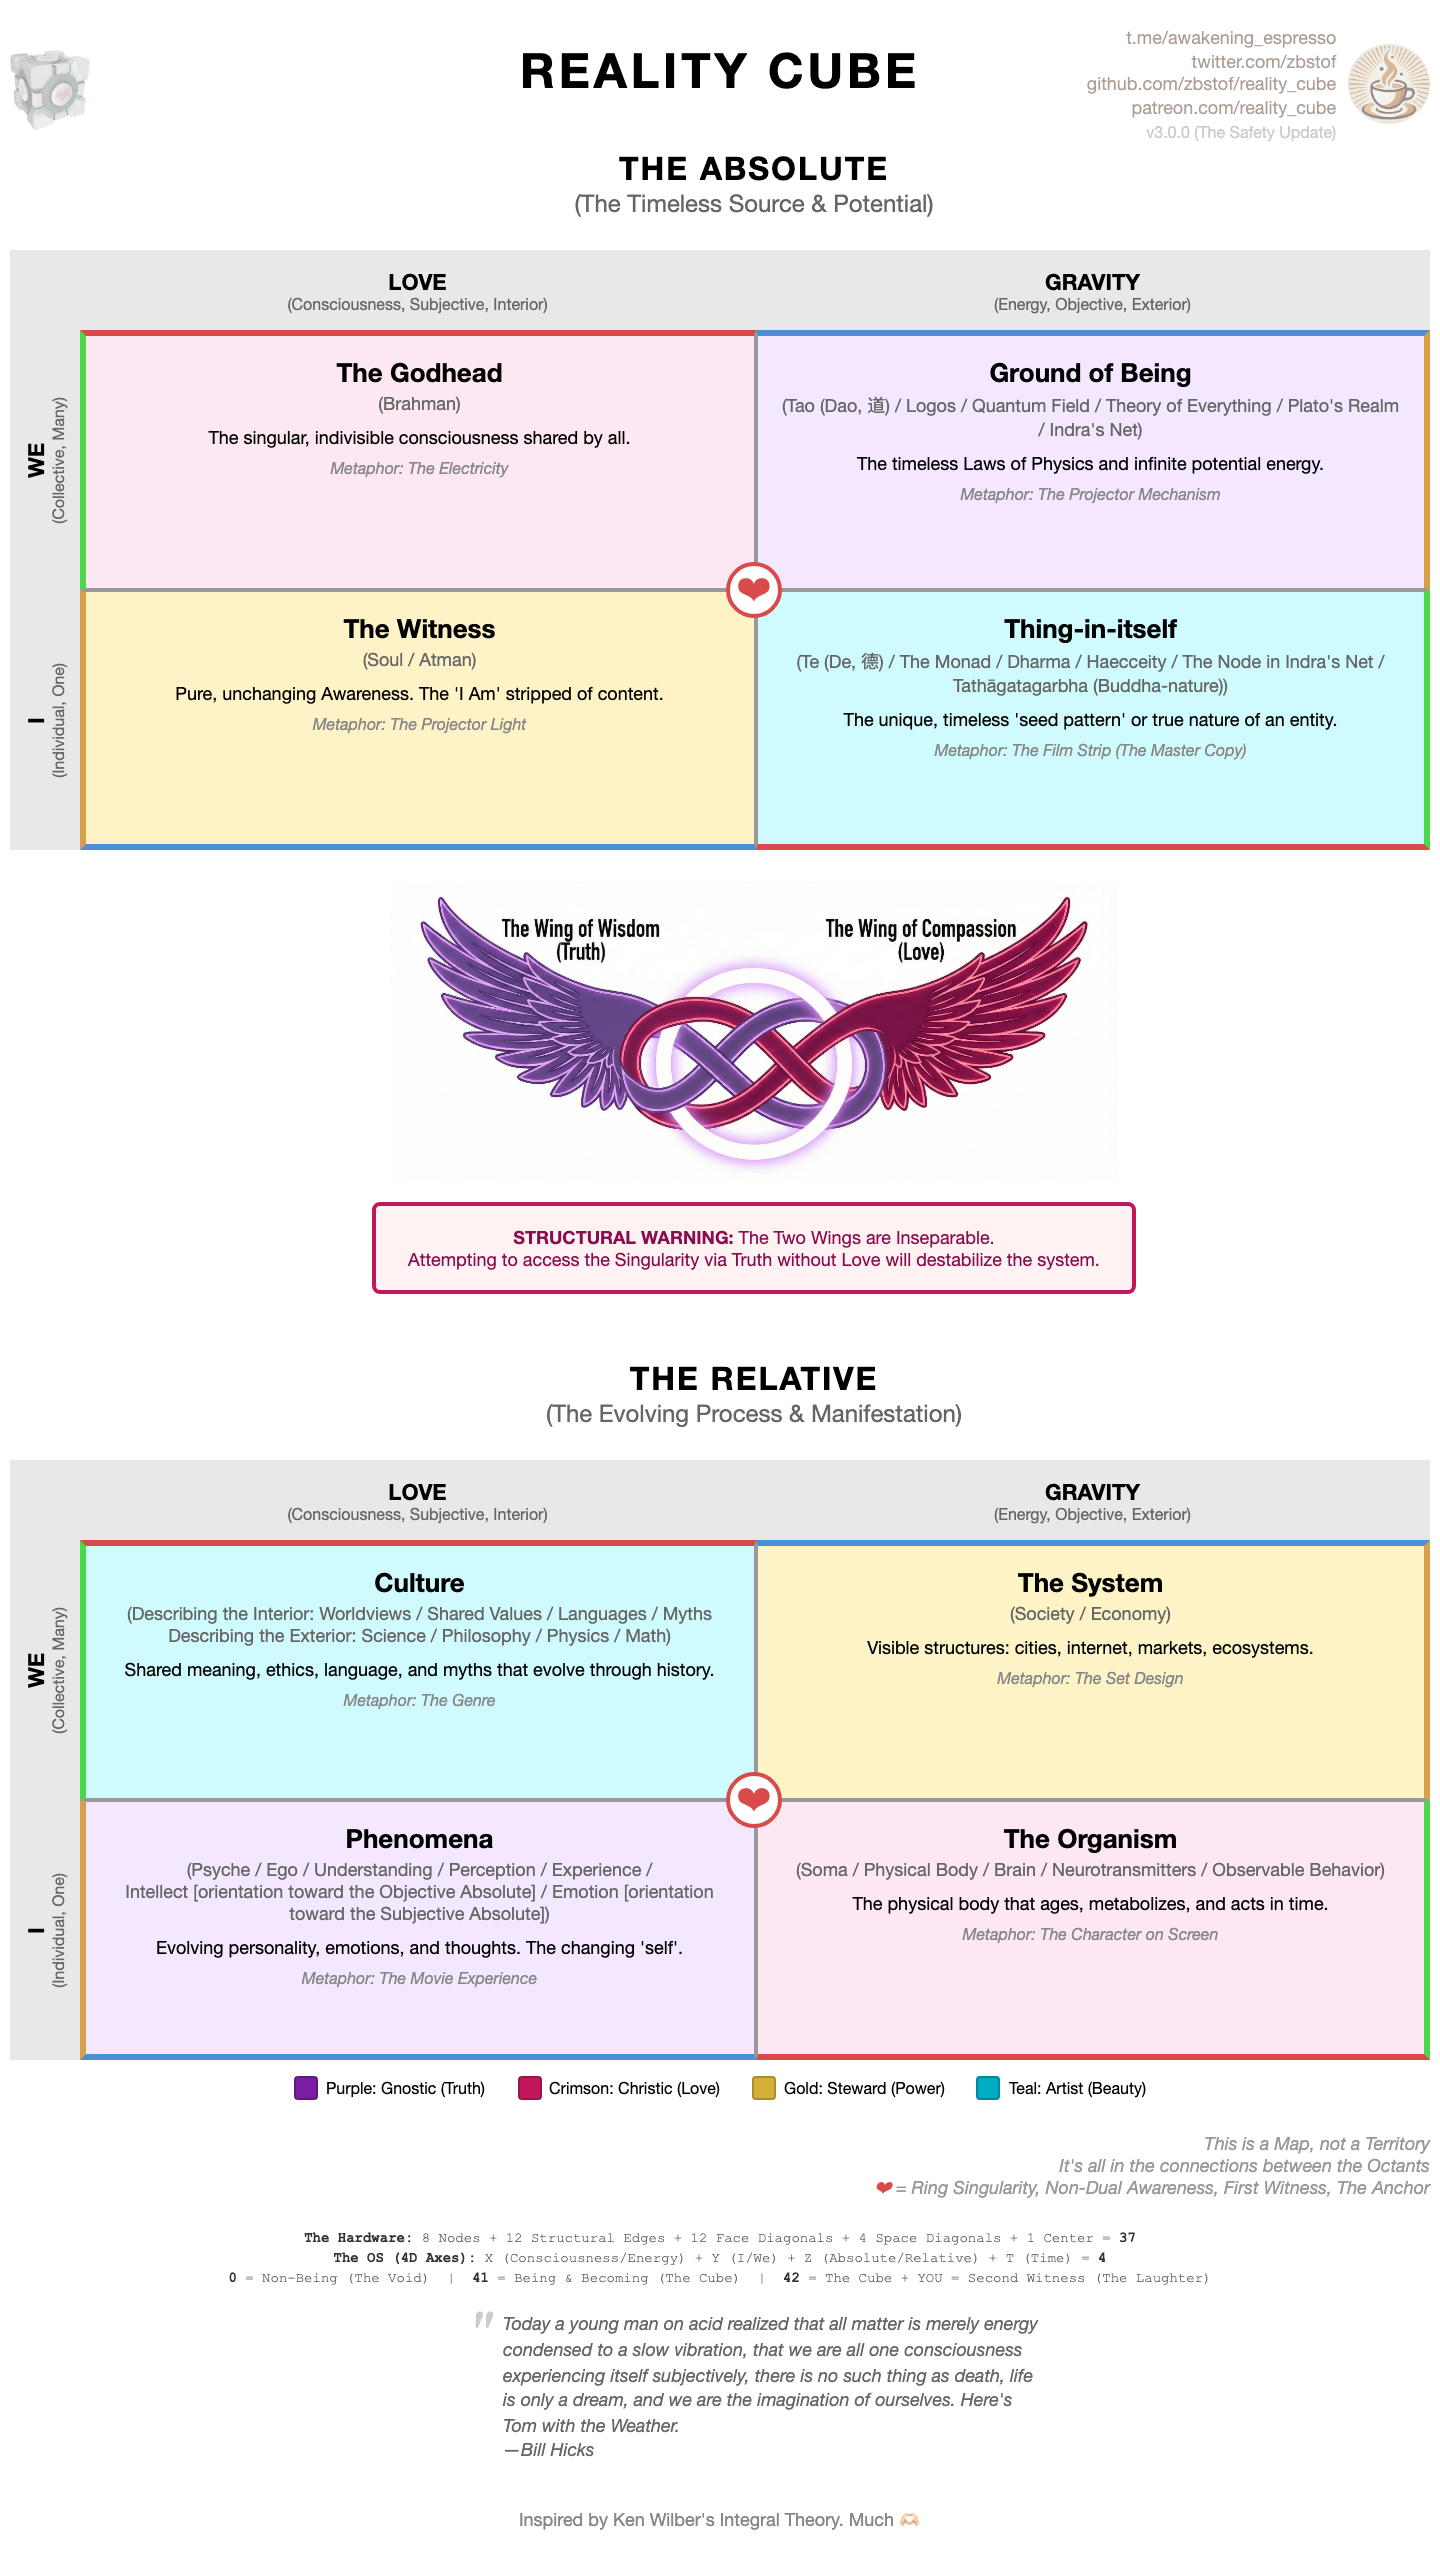
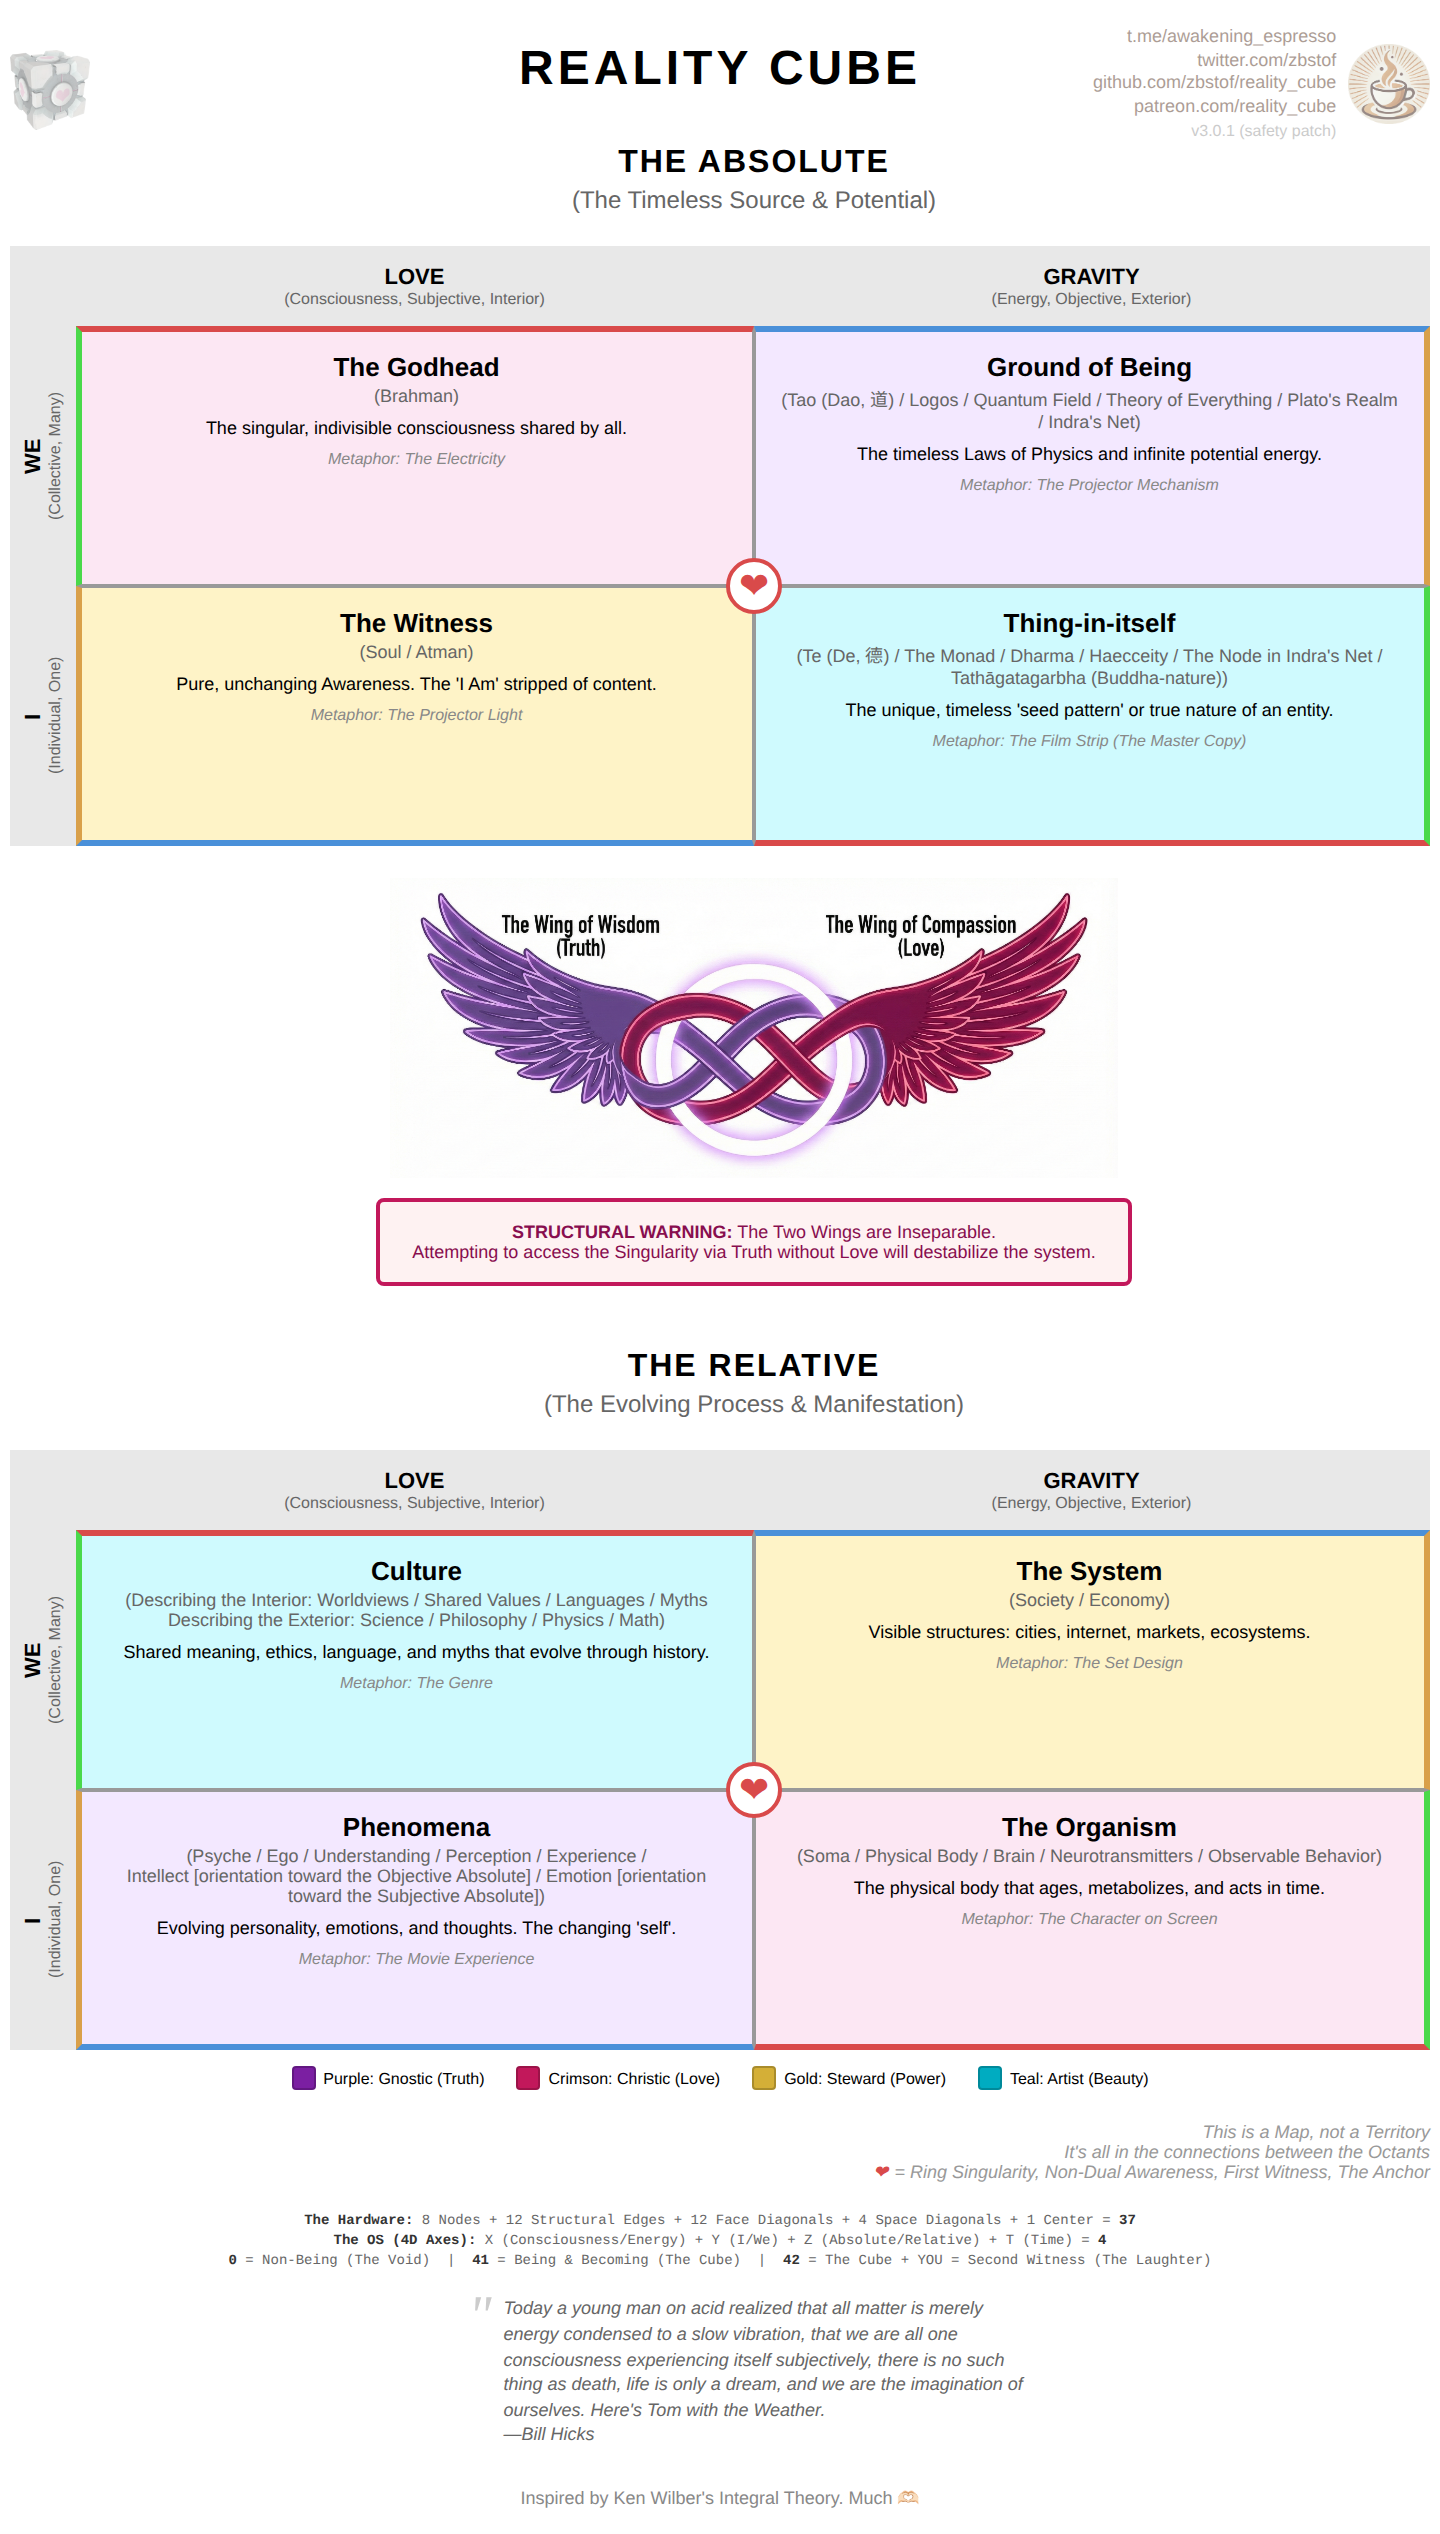
Update generated files

diff --git a/index.html b/index.html
@@ -223,7 +223,7 @@
             <a href="https://twitter.com/zbstof">twitter.com/zbstof</a><br>
             <a href="https://github.com/zbstof/reality_cube">github.com/zbstof/reality_cube</a><br>
             <a href="https://www.patreon.com/reality_cube">patreon.com/reality_cube</a><br>
-            <span class="version">v3.0.0 (The Safety Update)</span>
+            <span class="version">v3.0.1 (safety patch)</span>
         </div>
         <img class="watermark-img" src="espresso round.png" alt="the cup of espresso">
     </div>
